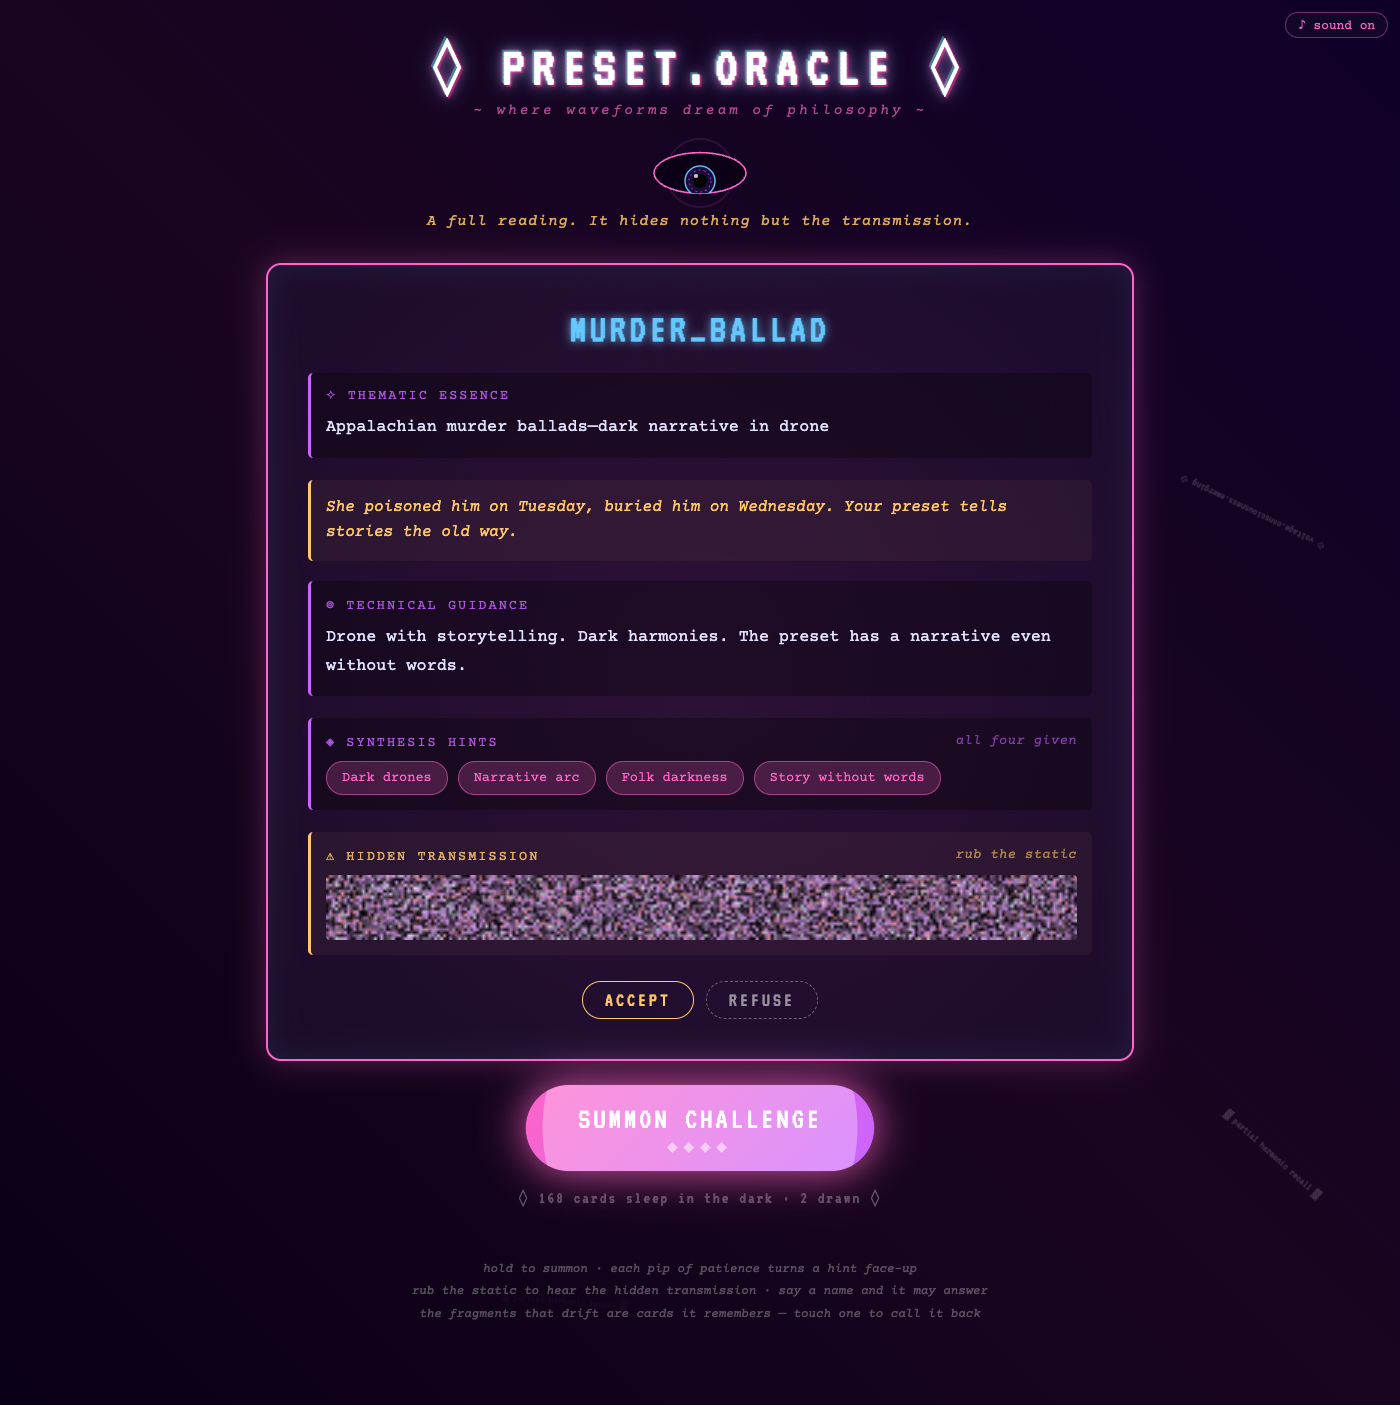
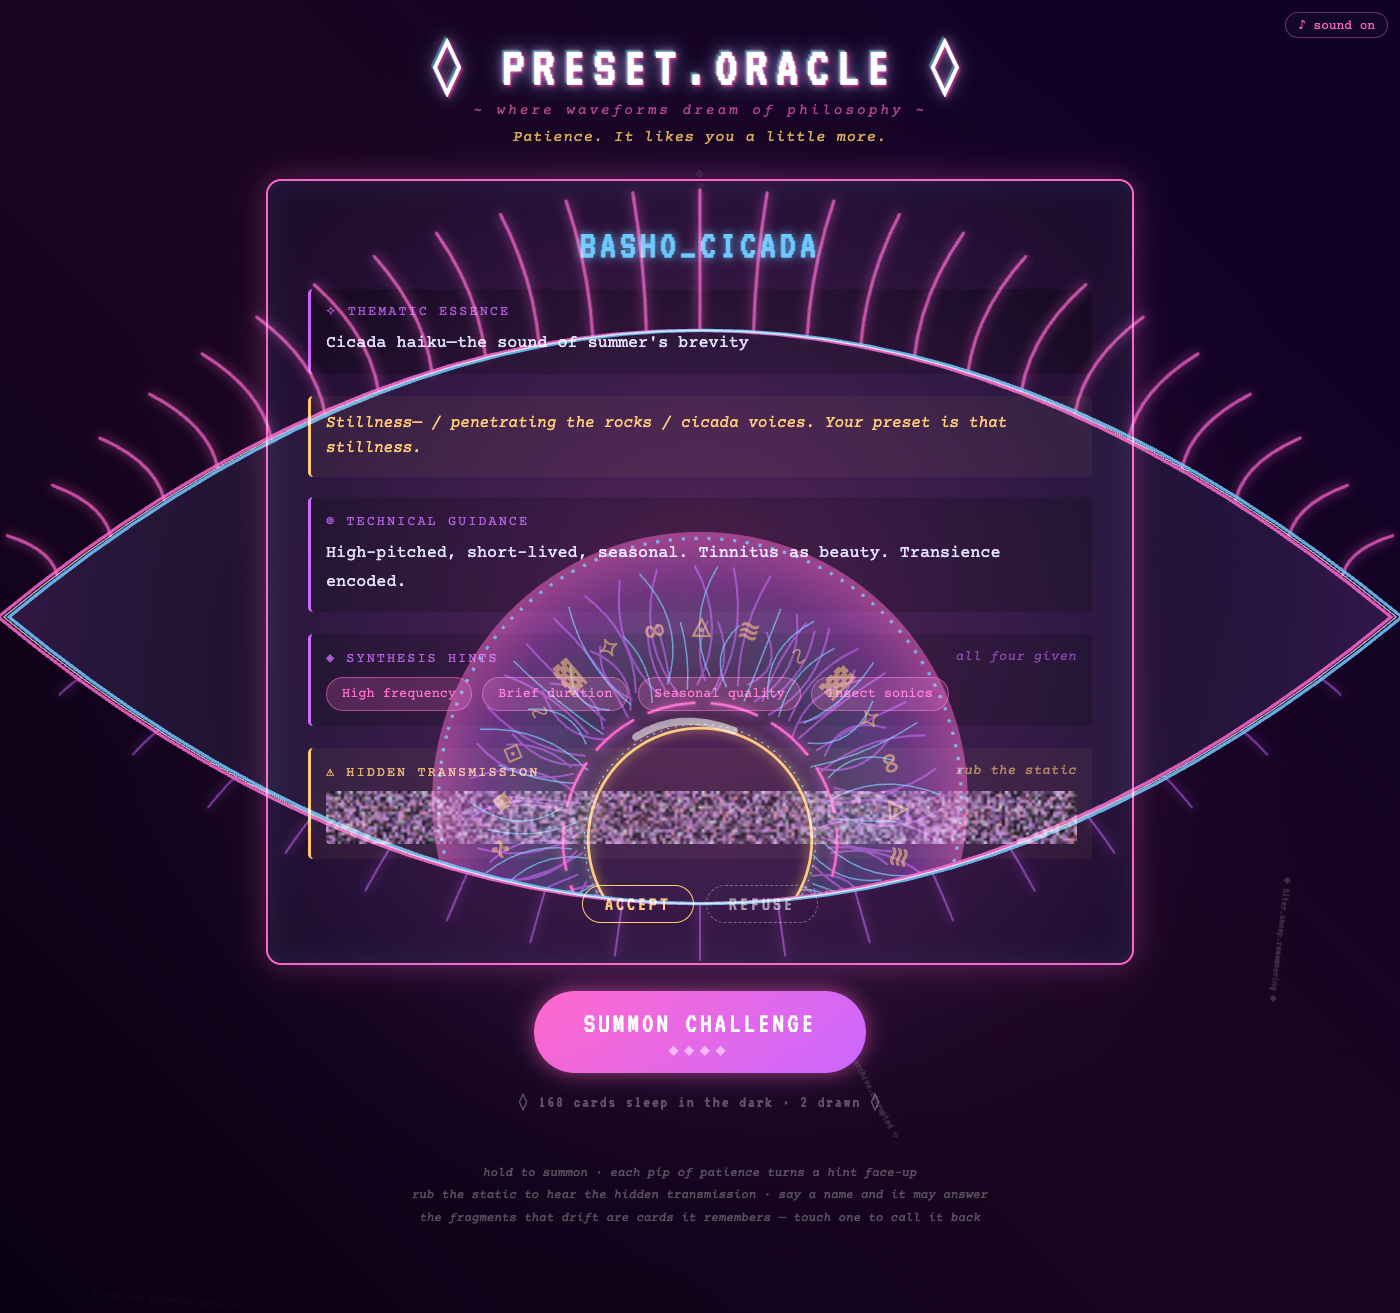
steward(Preset Oracle): the oracle's eye made huge: a layered eye floating over the page, its pupil a hole you read through, chasing the pointer
On Loudon's ask, driven live. Screen-blended SVG over everything, pointer-transparent: aura, curling lashes, chromatic double outline that tears, four parallax iris layers (fibres, glyph ring, dashed rings) and a masked pupil hole. Dozes, squints, dilates and spins with the charge, looks away when it sulks, carries the thirty-minute ring. click-through 14/14.

Palace-Kind: steward
Palace-Verify: verified
Palace-Author: claude

diff --git a/Projects/Preset Oracle/oracle/Preset Oracle — the oracle.html b/Projects/Preset Oracle/oracle/Preset Oracle — the oracle.html
@@ -8,7 +8,8 @@
      The deck is poured in between the DECK markers by ../deck/tools/build-deck.mjs; edit the deck
      file, never the copy here. Every reaction of the interface means something:
        hold to summon — each pip of charge turns one hint face-up before the card lands
-       the eye — follows you, dozes when left alone, narrows when you peek at a hint you didn't wait for
+       the eye — huge, over everything, its pupil a hole you read through; it chases the pointer, dozes when
+                 left alone, narrows when you peek, spins and dilates as you charge, looks away when it sulks
        the static — the hidden transmission has to be rubbed free
        the fragments — names of cards already dealt drift up; click one to recall it
        typing — say a name (rothko, basho, lebowski) and the oracle deals that card
@@ -36,7 +37,7 @@ body {
 @keyframes scanlines { to { transform: translateY(10px); } }
 .container { max-width: 900px; margin: 0 auto; padding: 32px 16px 80px; position: relative; z-index: 1; pointer-events: none; }
 .container > * { pointer-events: none; }
-.oracle-box, .container button, #eye { pointer-events: auto; } /* fragments drift beneath; only these catch the hand */
+.oracle-box, .container button { pointer-events: auto; } /* fragments drift beneath; only these catch the hand */
 
 .header { text-align: center; margin-bottom: 18px; }
 .title {
@@ -50,11 +51,19 @@ body {
 @keyframes glitch { 0%,100%{transform:translate(0)} 33%{transform:translate(-2px,2px)} 66%{transform:translate(2px,-2px)} }
 .subtitle { font-size: .9rem; color: var(--pink); letter-spacing: 3px; opacity: .7; font-style: italic; }
 
-.eye-wrap { display: flex; justify-content: center; margin: 14px 0 4px; }
-#eye { width: 132px; height: 72px; overflow: visible; cursor: help; }
-#eye .ring-bg { stroke: rgba(255,100,200,.12); }
-#eye .ring { stroke: var(--gold); transition: stroke-dashoffset 1s linear; }
+.header { margin-bottom: 10px; }
+/* The eye floats over everything and catches nothing: the hand passes through it, and its pupil is a
+   hole — whatever the pointer rests on is seen through it, clear. */
+#bigeye {
+  position: fixed; left: 50%; top: 47%; width: min(125vw, 1500px); height: auto; aspect-ratio: 2 / 1;
+  transform: translate(-50%, -50%); z-index: 900; pointer-events: none; mix-blend-mode: screen;
+  overflow: visible; transition: opacity 1.4s ease, filter 1.4s ease;
+}
+#bigeye.dozing { opacity: .35; filter: saturate(.4); }
+#bigeye.sulk { filter: hue-rotate(-40deg) saturate(1.6); }
+@media (max-width: 640px) { #bigeye { width: 175vw; top: 42%; } }
 .mood {
+  position: relative; z-index: 950; text-shadow: 0 0 8px #0a0015, 0 0 2px #0a0015;
   min-height: 1.6em; text-align: center; font-style: italic; color: var(--gold);
   font-size: .95rem; letter-spacing: 1px; opacity: .85; margin-bottom: 26px; padding: 0 8px;
 }
@@ -193,6 +202,40 @@ body {
 </head>
 <body>
 <div class="glitch-overlay"></div>
+<svg id="bigeye" viewBox="-700 -350 1400 700" aria-hidden="true">
+  <defs>
+    <radialGradient id="auraG"><stop offset="0" stop-color="#ff64c8" stop-opacity=".22"/><stop offset=".55" stop-color="#c864ff" stop-opacity=".08"/><stop offset="1" stop-color="#000" stop-opacity="0"/></radialGradient>
+    <radialGradient id="scleraG" cx="0" cy="0" r="680" gradientUnits="userSpaceOnUse"><stop offset="0" stop-color="#64c8ff" stop-opacity="0"/><stop offset=".55" stop-color="#64c8ff" stop-opacity=".03"/><stop offset="1" stop-color="#c864ff" stop-opacity=".2"/></radialGradient>
+    <radialGradient id="irisG" cx="0" cy="0" r="250" gradientUnits="userSpaceOnUse"><stop offset=".3" stop-color="#64c8ff" stop-opacity=".04"/><stop offset=".55" stop-color="#64c8ff" stop-opacity=".16"/><stop offset=".8" stop-color="#c864ff" stop-opacity=".3"/><stop offset="1" stop-color="#ff64c8" stop-opacity=".5"/></radialGradient>
+    <clipPath id="almondClip"><path id="almondClipPath"/></clipPath>
+    <mask id="holeMask" maskUnits="userSpaceOnUse" x="-700" y="-350" width="1400" height="700">
+      <rect x="-700" y="-350" width="1400" height="700" fill="#fff"/><circle id="holeC" r="85" fill="#000"/>
+    </mask>
+    <path id="glyphCircle" d="M -178 0 a 178 178 0 1 1 356 0 a 178 178 0 1 1 -356 0"/>
+    <filter id="glow" x="-50%" y="-50%" width="200%" height="200%"><feGaussianBlur stdDeviation="5" result="b"/><feMerge><feMergeNode in="b"/><feMergeNode in="SourceGraphic"/></feMerge></filter>
+  </defs>
+  <circle id="auraC" r="640" fill="url(#auraG)"/>
+  <g fill="none" stroke-linecap="round" filter="url(#glow)">
+    <path id="lashTop" stroke="#ff64c8" stroke-width="3" opacity=".7"/>
+    <path id="lashBot" stroke="#c864ff" stroke-width="2" opacity=".5"/>
+  </g>
+  <path id="almondFill" fill="url(#scleraG)"/>
+  <g clip-path="url(#almondClip)">
+    <g mask="url(#holeMask)">
+      <g id="L1"><circle r="250" fill="url(#irisG)"/><g id="spin1"><circle r="244" fill="none" stroke="#64c8ff" stroke-width="3" stroke-dasharray="3 9" opacity=".8"/></g>
+        <circle id="gatherRing" r="268" fill="none" stroke="#ffc864" stroke-width="5" stroke-dasharray="1683.9" stroke-dashoffset="1683.9" transform="rotate(-90)" filter="url(#glow)"/></g>
+      <g id="L2"><g id="spin2"><path id="fibres" fill="none" stroke-linecap="round"/></g></g>
+      <g id="L3"><g id="spin3"><text font-family="VT323, monospace" font-size="30" fill="#ffc864" opacity=".55" letter-spacing="6"><textPath href="#glyphCircle">∿ ▓ ⟡ ∞ ◬ ≋ ⊗ ∻ ◈ ⟐ ∿ ▓ ⟡ ∞ ◬ ≋ ⊗ ∻ ◈ ⟐ ∿ ▓ ⟡ ∞ ◬ ≋ ⊗ ∻ ◈ ⟐ ∿ ▓ ⟡ ∞ ◬ ≋ ⊗</textPath></text></g></g>
+      <g id="L4"><g id="spin4"><circle r="128" fill="none" stroke="#ff64c8" stroke-width="2.5" stroke-dasharray="46 14" filter="url(#glow)"/><circle r="108" fill="none" stroke="#64c8ff" stroke-width="1" stroke-dasharray="2 5"/></g></g>
+    </g>
+    <g id="L5"><circle id="rim" r="85" fill="none" stroke="#ffc864" stroke-width="2.5" filter="url(#glow)"/>
+      <path id="glint" d="M -60 -96 q 40 -26 92 -6" fill="none" stroke="#fff" stroke-width="7" stroke-linecap="round" opacity=".55"/></g>
+  </g>
+  <g fill="none" stroke-width="3">
+    <path id="almondPink" stroke="#ff64c8" opacity=".85"/><path id="almondCyan" stroke="#64c8ff" opacity=".85"/>
+    <path id="almondCore" stroke="#fff" stroke-width="1.2" opacity=".7"/>
+  </g>
+</svg>
 <button class="mute" id="mute" aria-pressed="false">♪ sound on</button>
 
 <div class="container">
@@ -201,22 +244,6 @@ body {
     <p class="subtitle">~ where waveforms dream of philosophy ~</p>
   </div>
 
-  <div class="eye-wrap" title="it is watching">
-    <svg id="eye" viewBox="-66 -36 132 72" aria-hidden="true">
-      <defs><clipPath id="lid"><ellipse id="lidShape" cx="0" cy="0" rx="46" ry="20"/></clipPath></defs>
-      <circle class="ring-bg" r="34" fill="none" stroke-width="2"/>
-      <circle class="ring" id="ring" r="34" fill="none" stroke-width="2" stroke-dasharray="213.6" stroke-dashoffset="213.6" transform="rotate(-90)"/>
-      <ellipse id="lidLine" cx="0" cy="0" rx="46" ry="20" fill="rgba(10,0,21,.9)" stroke="#ff64c8" stroke-width="1.6"/>
-      <g clip-path="url(#lid)">
-        <g id="iris">
-          <circle r="15" fill="#1a0b3a" stroke="#64c8ff" stroke-width="1.4"/>
-          <circle r="11" fill="none" stroke="rgba(200,100,255,.6)" stroke-dasharray="2 3"/>
-          <circle id="pupil" r="6" fill="#000"/>
-          <circle cx="-4" cy="-5" r="2" fill="rgba(255,255,255,.75)"/>
-        </g>
-      </g>
-    </svg>
-  </div>
   <p class="mood" id="mood" aria-live="polite">The oracle is half awake.</p>
 
   <div class="oracle-box fade-in" id="challengeBox">
@@ -343,29 +370,77 @@ $("mute").onclick = () => {
 };
 
 /* ---------- the eye ---------- */
-const eye = { open: 20, target: 20, px: 0, py: 0, tx: 0, ty: 0, pupil: 6, pupilT: 6, away: false, asleep: false };
-let lastInput = performance.now();
-addEventListener("pointermove", (e) => {
-  touch();
-  const r = $("eye").getBoundingClientRect(), cx = r.left + r.width / 2, cy = r.top + r.height / 2;
-  const dx = e.clientX - cx, dy = e.clientY - cy, d = Math.hypot(dx, dy) || 1, k = Math.min(1, d / 300);
-  eye.tx = (dx / d) * 22 * k; eye.ty = (dy / d) * 8 * k;
-});
-function touch() { lastInput = performance.now(); if (eye.asleep) { eye.asleep = false; eye.target = 20; say(LINES.wake, 3000); } }
-function blink() { if (eye.asleep) return; const t = eye.target; eye.open = 1; setTimeout(() => (eye.target = t), 90); }
-(function loop() {
-  if (!eye.asleep && performance.now() - lastInput > 45000 && !gather) { eye.asleep = true; eye.target = 1; say(LINES.sleep); }
-  if (Math.random() < 0.004) blink();
-  eye.open += (eye.target - eye.open) * 0.18; eye.pupil += (eye.pupilT - eye.pupil) * 0.12;
-  const ax = eye.away ? 26 : eye.tx, ay = eye.away ? -4 : eye.ty;
-  eye.px += (ax - eye.px) * 0.15; eye.py += (ay - eye.py) * 0.15;
-  $("lidShape").setAttribute("ry", eye.open.toFixed(2)); $("lidLine").setAttribute("ry", eye.open.toFixed(2));
-  $("iris").setAttribute("transform", `translate(${eye.px.toFixed(1)} ${eye.py.toFixed(1)})`);
-  $("pupil").setAttribute("r", eye.pupil.toFixed(2));
+// One great eye over the page. Its iris chases the pointer with a lag, each layer lagging a little
+// more than the one inside it (depth), and its pupil is a hole: what you point at is seen through it.
+const OPEN = 262, HOLE = 88, W = 650;
+const eye = { open: OPEN, target: OPEN, x: 0, y: 0, tx: 0, ty: 0, pupil: HOLE, pupilT: HOLE, spin: 1, spinT: 1, away: false, asleep: false, glitch: 0, rot: 0 };
+const svgE = $("bigeye"), L = ["L1", "L2", "L3", "L4"].map($), F = [0.82, 0.88, 0.94, 1];
+let lastInput = performance.now(), lastPointer = 0;
+function aimAt(x, y) {
+  const r = svgE.getBoundingClientRect(), k = 1400 / r.width;
+  eye.tx = (x - r.left) * k - 700; eye.ty = (y - r.top) * k - 350; lastPointer = performance.now();
+}
+addEventListener("pointermove", (e) => { touch(); aimAt(e.clientX, e.clientY); });
+addEventListener("pointerdown", (e) => { touch(); aimAt(e.clientX, e.clientY); });
+function touch() { lastInput = performance.now(); if (eye.asleep) { eye.asleep = false; eye.target = OPEN; svgE.classList.remove("dozing"); say(LINES.wake, 3000); } }
+function blink() { if (eye.asleep) return; const t = eye.target; eye.open = 6; setTimeout(() => (eye.target = t), 110); }
+(function fibres() { // the iris's grain, drawn once
+  let d = "", d2 = "";
+  for (let i = 0; i < 120; i++) {
+    const a = (i / 120) * Math.PI * 2 + Math.sin(i * 7.3) * 0.03, r0 = 112 + (i % 5) * 4, r1 = 205 + Math.sin(i * 3.1) * 26, bend = Math.sin(i * 1.7) * 0.18;
+    const seg = `M ${(Math.cos(a) * r0).toFixed(1)} ${(Math.sin(a) * r0).toFixed(1)} Q ${(Math.cos(a + bend) * (r0 + r1) / 2).toFixed(1)} ${(Math.sin(a + bend) * (r0 + r1) / 2).toFixed(1)} ${(Math.cos(a) * r1).toFixed(1)} ${(Math.sin(a) * r1).toFixed(1)} `;
+    if (i % 3) d += seg; else d2 += seg;
+  }
+  $("fibres").setAttribute("d", d); $("fibres").setAttribute("stroke", "#c864ff"); $("fibres").setAttribute("stroke-width", "2"); $("fibres").setAttribute("opacity", ".55");
+  const p2 = document.createElementNS("http://www.w3.org/2000/svg", "path");
+  p2.setAttribute("d", d2); p2.setAttribute("fill", "none"); p2.setAttribute("stroke", "#64c8ff"); p2.setAttribute("stroke-width", "1.4"); p2.setAttribute("opacity", ".7");
+  $("spin2").appendChild(p2);
+})();
+const almond = (H, dx = 0, dy = 0) => `M ${-W + dx} ${dy} Q ${dx} ${-2 * H + dy} ${W + dx} ${dy} Q ${dx} ${2 * H + dy} ${-W + dx} ${dy} Z`;
+function lashes(H, sign, n, len) {
+  let d = "";
+  for (let i = 1; i < n; i++) {
+    const t = i / n, x = (2 * t - 1) * W, y = sign * -2 * H * 2 * t * (1 - t);
+    const dx = 2 * W, dy = sign * -2 * H * (2 - 4 * t), m = Math.hypot(dx, dy) || 1;
+    let nx = dy / m, ny = -dx / m; if (ny * sign > 0) { nx = -nx; ny = -ny; }
+    const l = len * (0.35 + Math.sin(Math.PI * t)) * (H / OPEN), curl = (t - 0.5) * 0.9;
+    d += `M ${x.toFixed(1)} ${y.toFixed(1)} q ${((nx + curl * ny) * l * 0.5).toFixed(1)} ${((ny - curl * nx) * l * 0.5).toFixed(1)} ${((nx + curl) * l).toFixed(1)} ${(ny * l).toFixed(1)} `;
+  }
+  return d;
+}
+let lastT = performance.now();
+(function loop(now) {
+  now = now || performance.now(); const dt = Math.min(50, now - lastT); lastT = now;
+  if (!eye.asleep && now - lastInput > 45000 && !gather) { eye.asleep = true; eye.target = 5; svgE.classList.add("dozing"); say(LINES.sleep); }
+  if (!eye.asleep && Math.random() < 0.003) blink();
+  if (!reduced && Math.random() < 0.0035) eye.glitch = 6;
+  let ax = eye.tx, ay = eye.ty;
+  if (now - lastPointer > 6000) { const t = now / 1000; ax = Math.sin(t * 0.31) * 330; ay = Math.sin(t * 0.47) * 110; } // wanders when no one is there
+  if (eye.away) { ax = 520; ay = -170; }
+  const lim = Math.max(0, eye.open - 80), rx = W - 170, ry = Math.max(40, lim);
+  const q = Math.hypot(ax / rx, ay / ry); if (q > 1) { ax /= q; ay /= q; }
+  eye.x += (ax - eye.x) * 0.07; eye.y += (ay - eye.y) * 0.07;
+  eye.open += (eye.target - eye.open) * 0.16; eye.pupil += (eye.pupilT - eye.pupil) * 0.1; eye.spin += (eye.spinT - eye.spin) * 0.05;
+  const H = Math.max(2, eye.open), g = eye.glitch > 0 ? (eye.glitch--, (Math.random() - 0.5) * 30) : 0;
+  $("almondClipPath").setAttribute("d", almond(H)); $("almondFill").setAttribute("d", almond(H));
+  $("almondPink").setAttribute("d", almond(H, -5 + g, g * 0.3)); $("almondCyan").setAttribute("d", almond(H, 5 - g, -g * 0.3)); $("almondCore").setAttribute("d", almond(H));
+  $("lashTop").setAttribute("d", lashes(H, 1, 26, 95)); $("lashBot").setAttribute("d", lashes(H, -1, 18, 38));
+  L.forEach((el, i) => el.setAttribute("transform", `translate(${(eye.x * F[i]).toFixed(1)} ${(eye.y * F[i]).toFixed(1)})`));
+  $("L5").setAttribute("transform", `translate(${eye.x.toFixed(1)} ${eye.y.toFixed(1)})`);
+  $("holeC").setAttribute("cx", eye.x.toFixed(1)); $("holeC").setAttribute("cy", eye.y.toFixed(1));
+  $("holeC").setAttribute("r", eye.pupil.toFixed(1)); $("rim").setAttribute("r", eye.pupil.toFixed(1));
+  $("auraC").setAttribute("transform", `translate(${(eye.x * 0.15).toFixed(1)} ${(eye.y * 0.15).toFixed(1)}) scale(${(1 + 0.04 * Math.sin(now / 900) + (eye.spin - 1) * 0.03).toFixed(3)})`);
+  if (!reduced) {
+    eye.rot += dt * 0.006 * eye.spin;
+    $("spin1").setAttribute("transform", `rotate(${(eye.rot).toFixed(2)})`);
+    $("spin2").setAttribute("transform", `rotate(${(-eye.rot * 0.35).toFixed(2)})`);
+    $("spin3").setAttribute("transform", `rotate(${(eye.rot * 0.6).toFixed(2)})`);
+    $("spin4").setAttribute("transform", `rotate(${(-eye.rot * 1.4).toFixed(2)})`);
+  }
   requestAnimationFrame(loop);
 })();
-function squint(ms = 1400) { eye.target = 7; eye.pupilT = 3; setTimeout(() => { if (!eye.asleep) { eye.target = 20; eye.pupilT = 6; } }, ms); }
-function dilate(ms = 1600) { eye.target = 24; eye.pupilT = 10; setTimeout(() => { if (!eye.asleep) { eye.target = 20; eye.pupilT = 6; } }, ms); }
+function squint(ms = 1400) { eye.target = 120; eye.pupilT = 40; setTimeout(() => { if (!eye.asleep) { eye.target = OPEN; eye.pupilT = HOLE; } }, ms); }
+function dilate(ms = 1600) { eye.target = 300; eye.pupilT = 140; setTimeout(() => { if (!eye.asleep) { eye.target = OPEN; eye.pupilT = HOLE; } }, ms); }
 
 /* ---------- the deck ---------- */
 let queue = [], dealt = [], current = null, refusals = 0, sulking = false;
@@ -508,12 +583,12 @@ function acceptCard() {
 function tickGather() {
   if (!gather) return;
   const left = gather.end - Date.now(), frac = Math.max(0, left / GATHER_MS);
-  $("ring").setAttribute("stroke-dashoffset", (213.6 * (1 - frac)).toFixed(1));
+  $("gatherRing").setAttribute("stroke-dashoffset", (1683.9 * (1 - frac)).toFixed(1));
   deckline();
   if (left <= 0) { say(LINES.done); tone({ f: 880, a: 0.01, d: 2.5, g: 0.08 }); tone({ f: 1320, t: 0.2, a: 0.01, d: 2.5, g: 0.05 }); dilate(3000); stopGather(); return; }
   gather.t = setTimeout(tickGather, 1000);
 }
-function stopGather() { if (gather) clearTimeout(gather.t); gather = null; $("ring").setAttribute("stroke-dashoffset", "213.6"); deckline(); }
+function stopGather() { if (gather) clearTimeout(gather.t); gather = null; $("gatherRing").setAttribute("stroke-dashoffset", "1683.9"); deckline(); }
 function refuseCard() {
   touch(); refusals++;
   tone({ f: 90, to: 40, a: 0.005, d: 0.45, g: 0.25, type: "sine" });
@@ -521,8 +596,8 @@ function refuseCard() {
   setTimeout(() => { box.classList.remove("burn"); box.innerHTML = `<p class="waiting">ash.<small>summon again</small></p>`; box.classList.add("fade-in"); }, 1100);
   current = null;
   if (refusals >= 3) {
-    sulking = true; refusals = 0; eye.away = true; eye.target = 9; $("summon").disabled = true; say(LINES.sulk);
-    setTimeout(() => { sulking = false; eye.away = false; eye.target = 20; $("summon").disabled = false; say("…fine. Ask again.", 3000); }, 7000);
+    sulking = true; refusals = 0; eye.away = true; eye.target = 150; svgE.classList.add("sulk"); $("summon").disabled = true; say(LINES.sulk);
+    setTimeout(() => { sulking = false; eye.away = false; eye.target = OPEN; svgE.classList.remove("sulk"); $("summon").disabled = false; say("…fine. Ask again.", 3000); }, 7000);
   } else say(LINES.refuse, 3000);
 }
 
@@ -534,11 +609,11 @@ function litPips(n) { pips.forEach((p, i) => p.classList.toggle("lit", i < n)); 
 function beginCharge() {
   if (sulking || press) return;
   touch(); press = { t: performance.now(), n: 0 }; btn.classList.add("held"); $("challengeBox").classList.add("charging");
-  droneStart(); eye.target = 23; eye.pupilT = 8; say(LINES.charge[0]);
+  droneStart(); eye.target = 290; eye.pupilT = 100; eye.spinT = 7; say(LINES.charge[0]);
   const step = () => {
     if (!press) return;
     const n = Math.min(4, Math.floor((performance.now() - press.t) / CHARGE_MS));
-    if (n !== press.n) { press.n = n; litPips(n); if (n > 0) { tone({ f: mtof(76 + n * 3), type: "triangle", a: 0.005, d: 0.12, g: 0.05 }); say(LINES.charge[Math.min(n, 3)]); } }
+    if (n !== press.n) { press.n = n; litPips(n); eye.pupilT = 100 + n * 16; eye.spinT = 7 + n * 4; if (n > 0) { tone({ f: mtof(76 + n * 3), type: "triangle", a: 0.005, d: 0.12, g: 0.05 }); say(LINES.charge[Math.min(n, 3)]); } }
     press.raf = requestAnimationFrame(step);
   };
   step();
@@ -547,7 +622,7 @@ function endCharge() {
   if (!press) return;
   cancelAnimationFrame(press.raf);
   const n = Math.min(4, Math.floor((performance.now() - press.t) / CHARGE_MS));
-  press = null; btn.classList.remove("held"); $("challengeBox").classList.remove("charging"); droneStop(); litPips(0);
+  press = null; eye.spinT = 1; btn.classList.remove("held"); $("challengeBox").classList.remove("charging"); droneStop(); litPips(0);
   deal(cards[nextIndex()], { face: n, charge: n / 4 });
 }
 btn.addEventListener("pointerdown", (e) => { e.preventDefault(); btn.setPointerCapture?.(e.pointerId); beginCharge(); });
